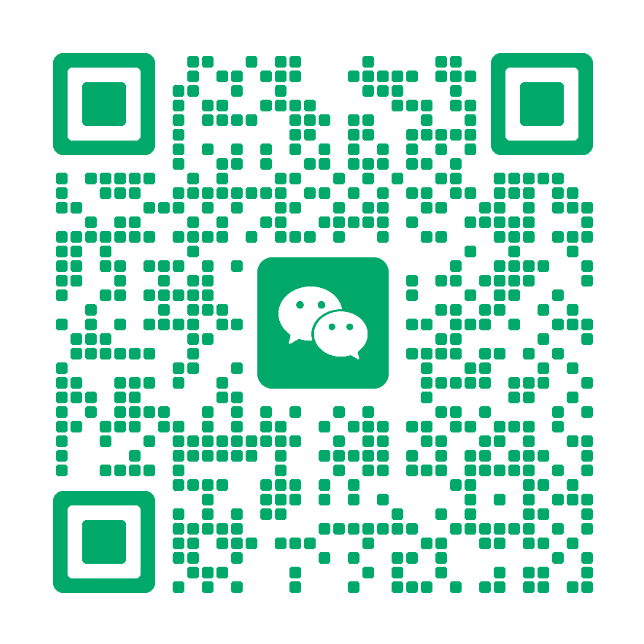
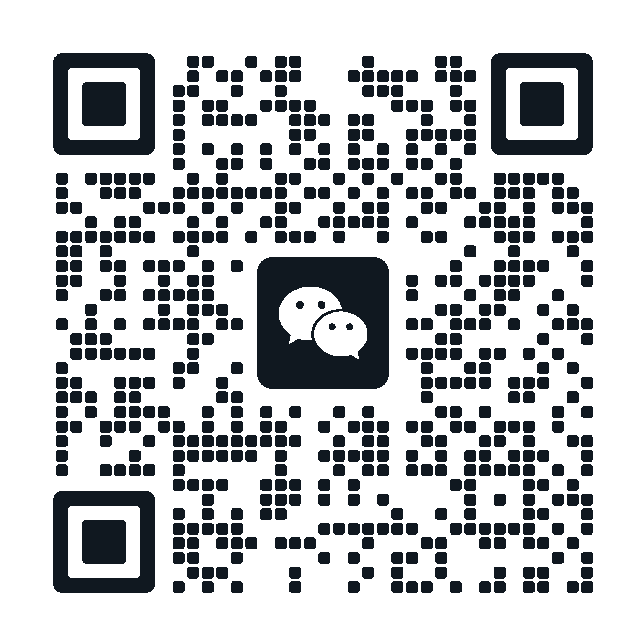
WeChat: scan-to-follow QR (from the business cards) in CN social bar

Changed region(s): [[0.0621, 0.0621, 0.9317, 0.9317]]

diff --git a/src/components/widgets/SocialBar.cn.tsx b/src/components/widgets/SocialBar.cn.tsx
@@ -1,9 +1,9 @@
 // Chinese social/contact strip. Loaded only when region === 'cn'.
-// Phase 1: WeChat OA QR (scan-to-follow), Maimai badge, Alibaba storefront link.
-// Replace placeholder hrefs when accounts are live.
+// WeChat is a scan-to-follow QR (click to reveal); the rest are link pills.
+
+import Image from 'next/image'
 
 const links = [
-  { label: '微信公众号', href: '#wechat-qr' },
   { label: '小红书 Rednote', href: 'https://xhslink.com/m/Aomr2SzFWW9' },
   { label: '脉脉 Maimai', href: 'https://maimai.cn' },
   { label: 'Alibaba.com', href: 'https://albionexports.trustpass.alibaba.com' },
@@ -13,6 +13,23 @@ const links = [
 export function SocialBarCn() {
   return (
     <ul className="flex flex-wrap items-center gap-3 text-sm text-navy-700">
+      <li>
+        <details className="group relative">
+          <summary className="cursor-pointer list-none rounded-full border border-navy-200 px-3 py-1 transition-colors hover:bg-navy-50 group-open:border-navy-400 group-open:bg-navy-50 [&::-webkit-details-marker]:hidden">
+            微信 WeChat
+          </summary>
+          <div className="absolute bottom-full left-0 z-30 mb-2 w-44 rounded-2xl border border-navy-100 bg-white p-3 shadow-xl">
+            <Image
+              src="/wechat-qr.png"
+              alt="微信二维码 — Albion Exports WeChat QR code"
+              width={160}
+              height={160}
+              className="h-auto w-full rounded-lg"
+            />
+            <p className="mt-2 text-center text-xs text-mute">微信扫一扫</p>
+          </div>
+        </details>
+      </li>
       {links.map((l) => (
         <li key={l.label}>
           <a
